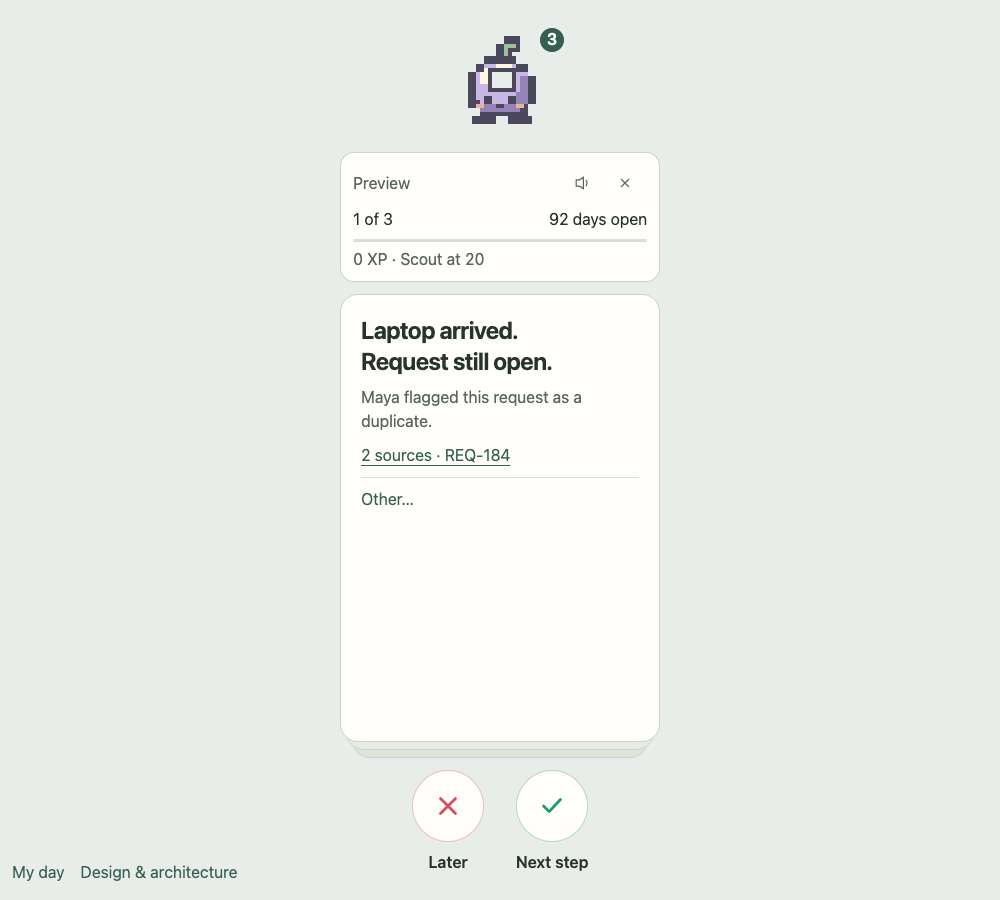
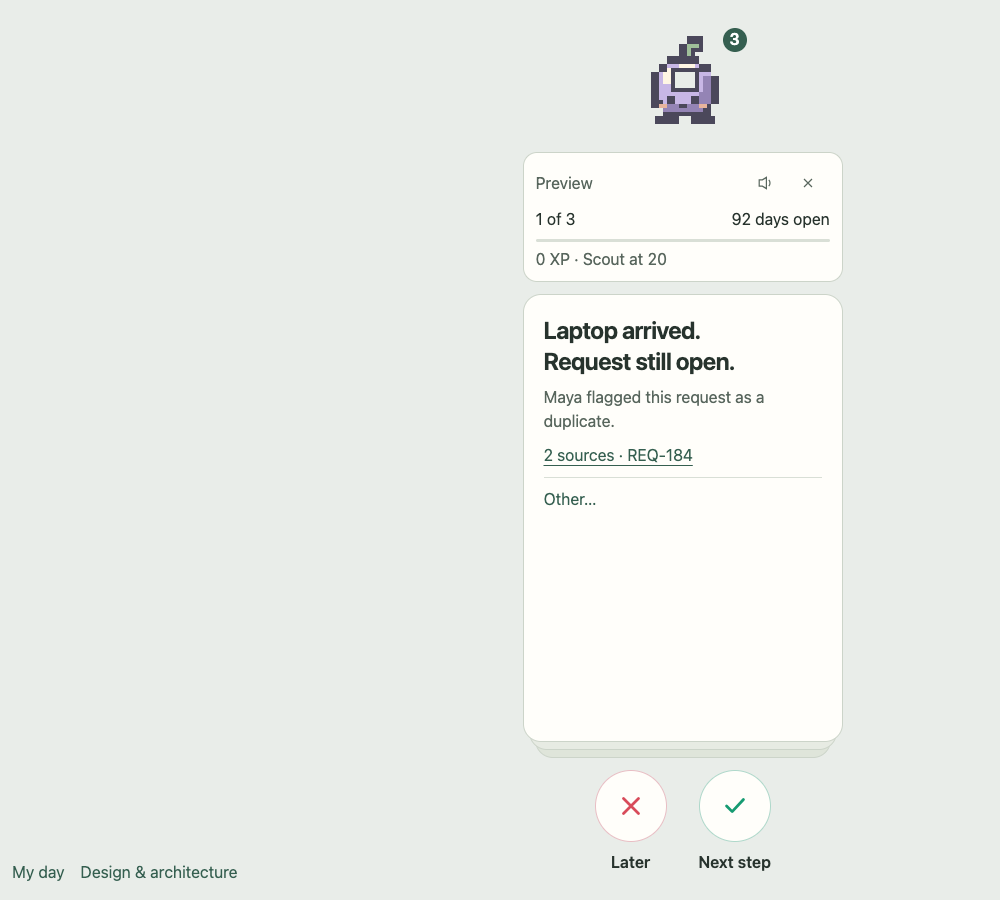
Retain deliberate buddy drops and remove decorative click motion

diff --git a/previews/assets/open-loops.js b/previews/assets/open-loops.js
@@ -277,7 +277,6 @@
     pendingTimer,
     idleTimer,
     happyTimer,
-    greetTimer,
     swipeTimer,
     drag = null,
     transitioning = false,
@@ -309,7 +308,7 @@
   reducedQuery.addEventListener('change', () => {
     if (!reduced()) return;
     clearMotionGhosts();
-    [info, deck, art, body.querySelector('#swipe-card')]
+    [info, deck, dock, body.querySelector('#swipe-card')]
       .filter(Boolean)
       .forEach((e) => e.getAnimations().forEach((a) => a.cancel()));
   });
@@ -1076,8 +1075,8 @@
       y: Math.max(12, Math.min(innerHeight - 140, anchor.y)),
     };
   }
-  function positionBuddy() {
-    const a = visibleAnchor(open ? buddyPose : buddyAnchor);
+  function positionBuddy(anchor = open ? buddyPose : buddyAnchor) {
+    const a = visibleAnchor(anchor);
     dock.style.left = `${a.x}px`;
     dock.style.top = `${a.y}px`;
     dock.dataset.anchorX = String(buddyAnchor.x);
@@ -1115,13 +1114,8 @@
     clearMotionGhosts();
     const wasOpen = open,
       animate = !reduced() && !keyboard,
-      beforeTop = art.getBoundingClientRect().top;
-    let closing;
-    if (!value && wasOpen && animate) {
-      closing = presentationClone(panel);
-      closing.hidden = false;
-    }
-    [info, deck, art].forEach((node) => node.getAnimations().forEach((a) => a.cancel()));
+      before = dock.getBoundingClientRect();
+    [info, deck, dock].forEach((node) => node.getAnimations().forEach((a) => a.cancel()));
     if (value && !wasOpen) Object.assign(buddyPose, visibleAnchor());
     open = value;
     panel.hidden = !value;
@@ -1137,51 +1131,14 @@
       positionBuddy();
       toggle.focus({ preventScroll: true });
     }
-    if (animate) {
-      const base = getComputedStyle(art).transform,
-        offset = beforeTop - art.getBoundingClientRect().top,
-        lifting = value && offset > 1;
-      art.animate(
-        [
-          { transform: `${base === 'none' ? '' : base} translateY(${offset}px)`, offset: 0 },
-          {
-            transform: `${base === 'none' ? '' : base} translateY(${value ? -12 : 0}px)`,
-            offset: 0.6,
-          },
-          { transform: base, offset: 1 },
-        ],
-        { duration: 240, delay: lifting ? 0 : 60, easing: 'cubic-bezier(.22,1,.36,1)' },
-      );
-      if (value) {
-        info.animate(
-          [
-            { transform: 'translateY(8px)', opacity: 0 },
-            { transform: 'none', opacity: 1 },
-          ],
-          { duration: 180, delay: lifting ? 240 : 0, easing: 'cubic-bezier(.22,1,.36,1)' },
-        );
-        deck.animate(
-          [
-            { transform: 'translateY(12px)', opacity: 0 },
-            { transform: 'none', opacity: 1 },
-          ],
-          { duration: 240, delay: lifting ? 240 : 0, easing: 'cubic-bezier(.22,1,.36,1)' },
-        );
-      }
-      if (closing) {
-        document.body.append(closing);
-        const exits = [...closing.querySelectorAll('.info-card,.deck-component')].map(
-          (node) =>
-            node.animate(
-              [
-                { transform: 'none', opacity: 1 },
-                { transform: 'translateY(12px)', opacity: 0 },
-              ],
-              { duration: 160, easing: 'cubic-bezier(.22,1,.36,1)' },
-            ).finished,
-        );
-        Promise.allSettled(exits).then(() => closing.remove());
-      }
+    const after = dock.getBoundingClientRect(),
+      dx = before.x - after.x,
+      dy = before.y - after.y;
+    if (animate && (Math.abs(dx) > 0.5 || Math.abs(dy) > 0.5)) {
+      const frames = [{ transform: `translate(${dx}px,${dy}px)` }, { transform: 'none' }],
+        timing = { duration: 180, easing: 'cubic-bezier(.22,1,.36,1)' };
+      dock.animate(frames, timing);
+      if (value) info.animate(frames, timing);
     }
     armIdle();
   }
@@ -1197,7 +1154,7 @@
     else toggle.focus({ preventScroll: true });
   }
   function reset() {
-    [pendingTimer, happyTimer, greetTimer, swipeTimer].forEach(clearTimeout);
+    [pendingTimer, happyTimer, swipeTimer].forEach(clearTimeout);
     for (const job of jobs.values()) {
       clearTimeout(job.stageTimer);
       clearTimeout(job.finishTimer);
@@ -1288,19 +1245,11 @@
       return;
     }
     setOpen(!open, e.detail === 0);
-    if (open) {
-      sound('pop', e);
-      if (e.detail && !reduced()) {
-        renderSprite('blink');
-        clearTimeout(greetTimer);
-        greetTimer = setTimeout(() => renderSprite('idle'), 180);
-      }
-    }
+    if (open) sound('pop', e);
   });
   toggle.addEventListener('pointerdown', (e) => {
     if (e.button !== 0 || e.isPrimary === false || buddyDrag) return;
-    [art, info].forEach((node) => node.getAnimations().forEach((a) => a.cancel()));
-    const anchor = open ? buddyPose : visibleAnchor();
+    const anchor = visibleAnchor(dock.getBoundingClientRect());
     buddyDrag = {
       id: e.pointerId,
       x: e.clientX,
@@ -1316,20 +1265,24 @@
     const dx = e.clientX - buddyDrag.x,
       dy = e.clientY - buddyDrag.y;
     if (!buddyDrag.moved && Math.hypot(dx, dy) < 8) return;
+    if (!buddyDrag.moved)
+      [dock, info].forEach((node) => node.getAnimations().forEach((a) => a.cancel()));
     buddyDrag.moved = true;
-    const anchor = open ? buddyPose : buddyAnchor;
-    anchor.x = buddyDrag.anchorX + dx;
-    anchor.y = buddyDrag.anchorY + dy;
+    buddyPose.x = buddyDrag.anchorX + dx;
+    buddyPose.y = buddyDrag.anchorY + dy;
     if (open) positionInfo();
     else {
-      Object.assign(buddyAnchor, visibleAnchor());
-      positionBuddy();
+      Object.assign(buddyPose, visibleAnchor(buddyPose));
+      positionBuddy(buddyPose);
     }
   });
   function finishBuddyDrag(e) {
     if (!buddyDrag || e.pointerId !== buddyDrag.id) return;
     suppressBuddyClick = buddyDrag.moved;
+    if (buddyDrag.moved && e.type === 'pointerup')
+      Object.assign(buddyAnchor, visibleAnchor(buddyPose));
     buddyDrag = null;
+    positionBuddy();
     if (toggle.hasPointerCapture(e.pointerId)) toggle.releasePointerCapture(e.pointerId);
     if (suppressBuddyClick)
       setTimeout(() => {

diff --git a/previews/assets/open-loops.css b/previews/assets/open-loops.css
@@ -1653,6 +1653,9 @@ svg {
   font-size: 1rem;
   line-height: 1.5;
 }
+.buddy-toggle:active:not(:disabled) {
+  transform: none;
+}
 @media (prefers-reduced-motion: reduce) {
   *,
   *::before,

diff --git a/docs/verification/local-checks.md b/docs/verification/local-checks.md
@@ -4,7 +4,7 @@ This report covers the transformed `previews/` files, not an earlier `.lavish` r
 
 ## Verified source identity
 
[4 lines of base64/hex data omitted]
 
@@ -18,8 +18,8 @@ HTML imports extract executable JS/CSS, rebase relative CSS URLs, retain executi
 | `npm run format:check`  | Pass                                                                                                   |
 | `npm run lint`          | ESLint, HTML validation, Stylelint, Markdownlint pass                                                  |
 | `npm test`              | 13 policy/import tests pass; zero skipped                                                              |
-| `npm run test:ui`       | All 9 Chromium tests pass in 12.2 seconds; zero skipped/retried                                        |
-| `npm run check:sentrux` | Sentrux 0.5.7: all 3 strict rules pass; 3 application JS / 12 total first-party JS files; quality 6824 |
+| `npm run test:ui`       | All 9 Chromium tests pass in 12.5 seconds; zero skipped/retried                                        |
+| `npm run check:sentrux` | Sentrux 0.5.7: all 3 strict rules pass; 3 application JS / 12 total first-party JS files; quality 6840 |
 | `npm run bundle`        | Created `dist/open-loops-preview.tar.gz` with per-file SHA-256 manifest                                |
 
 Local runtime: Node v26.12.1, npm 11.20.0. Hosted CI uses Node 24; local success is not a claim about hosted execution. Strict limits remain `max_cc=25`, `max_fn_lines=100`, `max_cycles=0`; no baseline, skipped tests, or continue-on-error was used.
@@ -28,28 +28,30 @@ Local runtime: Node v26.12.1, npm 11.20.0. Hosted CI uses Node 24; local success
 
 1. First scan streams labeled synthetic activity, offers a usable quest before completion, exposes activity through the independent info action, and preserves a draft across minimization.
 2. Actual front faces retain 5:7 geometry and width at least 260px at tested desktop/390/320 widths. Real CDP touch swipes, mouse drag/cancel, keyboard navigation, visible-circle clearance, mute persistence, and short-screen containment pass. External green Back restores the parent; cards expose no Back button or navigation landmark.
-3. Buddy placement restores its resting anchor after close; open drag moves buddy/info without moving the deck. Info stays below the displayed buddy. Acceptance gives +10 XP once, with no extra XP from navigation, snoozing, copying, cancel/retry, or source actions.
+3. Every deliberate drop, open or closed, becomes the next resting anchor. Close/reopen preserves an open drop; automatic boundary fitting does not overwrite it. Open drag moves buddy/info without moving the deck. A real motion-enabled click is sampled over 25 animation frames: dock and sprite stay still when no boundary correction is needed. Acceptance gives +10 XP once, with no extra XP from navigation, snoozing, copying, cancel/retry, or source actions.
 4. Prepared text preserves edits/history, copies exact literal content, opens a routed fixed Claude page without submitting, and exposes clipboard/popup failures honestly. Async job and source receipts cannot replace another quest's draft. Source-write approval remains separate.
 5. My day filters preserve totals and expose observed/inferred/demo provenance, linked evidence, and explicitly synthetic source receipts rather than live telemetry.
 
 ## Findings resolved
 
-The first hosted Linux run found a test event-completion race: after a real Close tap returned, the next buddy tap resolved while the dialog was still open. The test now waits for the observable hidden dialog before reopening, without changing input type or adding sleeps, forced clicks, retries, or skips. This is a test synchronization fix, not a recovered product change; canonical source stays unchanged.
+The first hosted Linux run found a test event-completion race: after a real Close tap returned, the next buddy tap resolved while the dialog was still open. The test now waits for the observable hidden dialog before reopening, without changing input type or adding sleeps, forced clicks, retries, or skips. That fix changed only test synchronization, not the product source.
 
 Earlier full runs exposed a fast buddy-drag capture bug and missing Back while a source receipt was pending. The canonical owner acquired pointer capture on pointerdown, retained the 8px threshold and up/cancel release, and made parent return independent of action-busy guards. History-aware return also covers activity. Async identity guards remain intact.
+
+Subsequent user reports identified open-drag placement reverting and excessive click bounce. The canonical owner commits the drop to the resting anchor, removes decorative art animation/click blink/active scaling, and limits necessary boundary motion to one monotonic 180ms dock/info move. Expanded regressions cover the open-drag close/reopen roundtrip and real motion-enabled stability; reduced-motion-only checks no longer hide that behavior.
 
 The test suite was updated for the user's superseding contract: large cards, no inside-card navigation, and the existing external green circle as Back. The drag test now targets a distinct position using the actual buddy handle. Clearance measures visible circles rather than their padded container. The first-scan test exercises the real info activity action instead of requiring an obsolete status button. Real touch and clipboard checks were not replaced with source-text assertions.
 
 ## Independent browser evidence
 
-After the final import and gates, a separate delivery-owned browser tab loaded the transformed preview from its own local server. It measured a 320×448 desktop front face and 260×364 at 320×700, with no horizontal overflow. The short deck had a 392px viewport and 500px content height: scrolling reached the external Back, which restored the root card. The prepared prompt was prefilled and navigation stayed outside it. My day rendered its synthetic timeline and source provenance.
+After the final import and gates, a separate delivery-owned browser tab loaded the transformed preview with motion enabled. A deliberate open drop at `(698.5,112)` stayed at exactly those coordinates after close and reopen; the art had zero animations. It measured a 320×448 desktop front face and 260×364 at 320×700. The prefilled prompt and external controls remained usable. Earlier independent inspection also covered the unchanged My day synthetic timeline and source provenance.
 
 Imported-copy screenshots: [desktop](../images/imported-desktop.png), [prompt](../images/imported-prompt.png), [320px card](../images/imported-mobile.png), [320px controls after scrolling](../images/imported-mobile-controls.png).
 
[2 lines of base64/hex data omitted]
 
 Old small-card/inside-Back screenshots and earlier 61-check reports are superseded. No live Snowflake/model API, native permissions, real reminders, source writes, signing, or business outcome is claimed.
 
 ## Cleanup and hosted status
 
-Playwright closed its browser contexts/server. The independent delivery tab, diagnostic browser, and their uniquely named local servers were closed; other workers' and user tabs/processes were not touched. Hosted PR, workflow, and artifact receipts are recorded in [CI.md](../CI.md). Repository visibility now reads public after an unexpected external change; this workstream preserved it. The earlier private-repository protection error is historical, not a current public-repository entitlement claim.
+Playwright closed its browser contexts/server. The independent delivery tab, diagnostic browser, and their uniquely named local servers were closed; other workers' and user tabs/processes were not touched. Hosted receipts are recorded in [CI.md](../CI.md). Repository visibility now reads public after an unexpected external change, preserved by this workstream. Main protection was subsequently configured and verified: exact required `PR gate`, strict checks, administrators included, and PRs with zero human approvals.

diff --git a/docs/CI.md b/docs/CI.md
@@ -4,7 +4,7 @@
 
 The user authorized commits, GitHub publication, CI/CD, and required PR checks after the initial documentation-only checkpoint. Private visibility was the initial default. Earlier no-commit/no-push restrictions no longer apply. Destructive history changes, visibility mutations, native releases, and unapproved source writes remain outside this workstream.
 
-Authenticated GitHub user: `i098`. `repos/i098/open-loops` initially returned HTTP 404. [i098/open-loops](https://github.com/i098/open-loops) was created private; origin is `https://github.com/i098/open-loops.git`. Documentation bootstrap `dd4ff34` is on main. [Draft PR #1](https://github.com/i098/open-loops/pull/1) contains the previews, plans, tests, and CI on `feat/verified-previews-ci`; it is not merged. A later raw API read returned `private: false`, `visibility: public`. This unexpected external visibility change was reported and preserved; no visibility mutation was performed here. The user clarified continuing publication to the existing repository. No unrelated repository was reused.
+Authenticated GitHub user: `i098`. `repos/i098/open-loops` initially returned HTTP 404. [i098/open-loops](https://github.com/i098/open-loops) was created private; origin is `https://github.com/i098/open-loops.git`. Documentation bootstrap `dd4ff34` is on main. [Draft PR #1](https://github.com/i098/open-loops/pull/1) contains the previews, plans, tests, and CI on `feat/verified-previews-ci`; it is not merged. A later raw API read returned `private: false`, `visibility: public`. This unexpected external visibility change was reported and preserved. Publication continued under the original GitHub authorization; this workstream did not change visibility. No unrelated repository was reused.
 
 The actual application deliverable is a **browser prototype plus plans**, not a Tauri application. CI must not invent a Cargo build for absent native sources.
 
@@ -49,7 +49,7 @@ Job name: **`PR gate`**. It depends on `detect`, `format`, `lint`, `test`, and `
 - Docs-only PRs still receive the stable gate, while unnecessary browser/Sentrux work skips.
 - Main delivery depends on gate success. No `continue-on-error`, warning-only Sentrux, or fake successful fallback is permitted.
 
-The earlier private-repository branch-protection PUT and diagnostic GET returned HTTP 403: `Upgrade to GitHub Pro or make this repository public to enable this feature.` Repository admin permission was present. That was an account-entitlement restriction for the then-private repository, not missing admin access. The repository is now unexpectedly public; the previous restriction does not establish its current entitlement state. No protection request was retried after that change. This workstream has not configured an enforced required branch rule; the workflow's `PR gate` alone is not branch protection.
+The earlier private-repository protection attempt returned HTTP 403 requiring GitHub Pro or public visibility. After the externally changed visibility cleared that condition, an authorized GET found main unprotected (HTTP 404). The minimal protection policy was then applied and verified by GET: exact required context **`PR gate`**, strict up-to-date checks, enforced for administrators, and pull requests required with **zero human approvals**. No code-owner or extra reviewer policy was added. Force pushes and deletions are disabled. The prior private-repository entitlement blocker is historical; required-gate enforcement is now active. No visibility change or auto-merge was performed.
 
 ## Untrusted PRs and pins
 
@@ -117,10 +117,10 @@ npm install --ignore-scripts
 
 Observed: user `i098`; initial repository 404; created repository confirmed private; Sentrux 0.5.7; 249 npm packages installed. No credentials were written to repository docs. Initial npm engine warning reflected Node26 versus the first proposed strict Node24 range; package support now allows Node24 and newer while CI remains on Node24.
 
[2 lines of base64/hex data omitted]
 
 ## Hosted execution receipts
 
 The first [hosted run 40022399641](https://github.com/i098/open-loops/actions/runs/40022399641) completed with failure: Detect, Format, Lint, and Sentrux passed; browser/policy job failed on one of nine browser tests; `PR gate` failed and preview delivery correctly skipped. The [failure trace artifact](https://github.com/i098/open-loops/actions/runs/40022399641/artifacts/12530638418) is diagnostic evidence, not a delivered preview.
 
[1 lines of base64/hex data omitted]
+The trace shows the next buddy tap resolving while `aria-expanded` was still `true` after Close's touch action returned. The test now waits for the observable hidden dialog before tapping to reopen. It still uses real touch input and verifies preserved snooze/mute state; no sleep, force-click, retry, or skip was added. That test-only correction left source `5dd26847…` unchanged. Later user-reported placement/bounce bugs were fixed in source `82d02fd3…` and checked separately. Current hosted results must come from the actual [PR checks](https://github.com/i098/open-loops/pull/1/checks), not local inference.

diff --git a/PLAN.md b/PLAN.md
@@ -20,13 +20,13 @@ Turn a cited office loose end into a prepared prompt, one numbered decision, and
 
 - **Companion:** an independent buddy, info card, and **5:7 poker-ratio** decision deck with meaningful backing edges, no heavy header, fake desktop, or shadows. The buddy keeps its stored resting anchor for the browser session. Root actions remain circular red-X/green-check controls; on child cards the green control becomes Back. No navigation bar, Back button, or reserved navigation space appears inside any card. Close stays in the info card. Preserve focus, draft, card, and running job.
 - **Left:** choose one of three snooze times. **Right:** choose one of two or three numbered read/draft actions, inspect the full brief, then explicitly accept. Swipes themselves grant no permission and no XP.
-- **Acceptance:** +10 XP exactly once per quest ID, immediately on explicit acceptance, not completion. A slim XP bar sits at the independent info card's bottom. Pip 0–19, Scout 20–29, Guide 30+. Retries, duplicate clicks, snoozes, and source writes cannot farm XP. Sound is optional; reduced motion removes slide/hop animation.
+- **Acceptance:** +10 XP exactly once per quest ID, immediately on explicit acceptance, not completion. A slim XP bar sits at the independent info card's bottom. Pip 0–19, Scout 20–29, Guide 30+. Retries, duplicate clicks, snoozes, and source writes cannot farm XP. Sound is optional; reduced motion removes transition travel. Decorative buddy bounce/hop is disabled for everyone.
 - **Source mutation:** a separate approval of exact recipient/record/operation/payload; recheck current actor permission, source revision/status, and evidence; perform authorized write and authoritative readback. Timeouts remain unverified until reconciled.
 - **Idle:** after approximately 300 seconds of OS idle, optionally suggest a due quest quietly. Never auto-open, steal focus, accept, upload, or dispatch.
 
 The buddy is the placed anchor. An independent info card always sits below the displayed buddy and owns Preview, sound, Close, count/age, progress, and status. The separate 5:7 deck owns quests, options, prompt editing, swipes, and its own sizing, position, and motion. Both open with the buddy; deck navigation never moves the info card.
 
-Distinguish the stored **resting anchor** from the temporary **display pose**. Near the bottom edge, top-to-bottom order is **deck including circular actions, buddy, info**. Lift the displayed buddy only enough to fit the info card below it; fit the deck independently above it. Never flip info above the buddy or reserve room for the whole deck below it. Close restores the resting anchor; opening and viewport clamping must not overwrite it. Dragging an open buddy moves its info card, not the deck.
+Distinguish the stored **resting anchor** from temporary boundary fitting. Every deliberate user drop commits a new resting anchor whether open or closed; subsequent clicks and close/reopen retain it. Automatic fitting never writes that anchor. Near the bottom edge, order is **deck including circular actions, buddy, info**. Lift the displayed buddy only enough to fit info below it; fit the deck independently above it. Never flip info above the buddy or reserve room for the whole deck below it. Open drag moves info, not the deck. No decorative click bounce or hop; necessary boundary movement alone uses one short monotonic dock transition.
 
 Desktop cards are normally 320×448px, never below 260×364px when width allows. Narrow cards use `min(260px, viewport width − 24px)` at the same 5:7 ratio. Never shrink cards or essential 16px text to fit the buddy/info stack. Use the deck's own scrolling viewport for short screens so its full-size card and controls remain reachable without overlapping buddy/info.
 
@@ -61,7 +61,7 @@ Generate each quest with its 2–3 stable action options, exact briefs, hard rea
 
 Swipes render stored options immediately: no LLM/network request, loading state, or agent job. **Other… always edits the existing prepared prompt**, prefilled with current quest/option context and constrained read/draft scope. It preserves edits on Back and requires save/review before explicit Copy/Open handoff; handoff grants no XP and needs no demo acceptance. Only starting a demo/API job requires separate Accept and grants +10 XP once per quest. The three fixed snooze durations stay; there is no custom-date workflow. Typing, copying, opening a page, or navigating never implies agent execution.
 
-Keep essential text at least 16px; remove redundant minor subtexts rather than hiding safety scope. Motion follows the selected free [Transitions.dev references](docs/motion.md): 180ms/8px child-back changes, 240ms/24px deck entry, restrained buddy hop, and immediate reduced-motion/keyboard state changes. Use browser-native CSS/Web Animations; retain source provenance and the custom snippet-license limits. No Pro recipe, motion library, or CI dependency is added.
+Keep essential text at least 16px; remove redundant minor subtexts rather than hiding safety scope. The free [Transitions.dev references](docs/motion.md) inform card motion: 180ms/8px child-back changes and 240ms/24px deck entry, with immediate reduced-motion/keyboard changes. They do not authorize a buddy hop. Use browser-native CSS/Web Animations; retain source provenance and custom snippet-license limits. No Pro recipe, motion library, or CI dependency is added.
 
 ### Prompt handoff
 
@@ -123,7 +123,7 @@ Real Sentrux 0.5.7 uses pinned binary/grammar hashes, telemetry opt-out, strict 
 
 A successful main push creates an actual downloadable preview archive with a SHA-256 manifest. A successful PR may produce a review artifact when packaged inputs change. Neither means hosted deployment or native release. The exact path matrix, Action pins, commands, results, and GitHub run/artifact links belong in [CI.md](docs/CI.md).
 
-**Protection is not configured by this workstream:** the historical HTTP 403 was an entitlement restriction while the repository was private. Visibility now reads public after an external change; protection was not retried. Do not claim the workflow gate is server-enforced branch protection.
+**Main protection is enforced:** verified GET reports required `PR gate`, strict up-to-date checks, administrator enforcement, and PRs with zero human approvals. The earlier private-repository HTTP 403 is historical. No extra reviewer policy, visibility mutation, or auto-merge was introduced.
 
 ## 7. Final handoff gates
 

diff --git a/docs/motion.md b/docs/motion.md
@@ -57,39 +57,21 @@ Stage a newly mounted child in its `after` position before activating it; either
 
 Commit the existing navigation state immediately. Mark every inactive real card `inert` and `aria-hidden="true"`; opacity and pointer-events alone do not remove keyboard access. Focus the active heading or restore the originating control on back, without waiting 180ms. Preserve drafts. Keyboard navigation should switch immediately with no travel.
 
-## 3. Independent deck entry and buddy hop
+## 3. Independent deck entry and necessary placement
 
-The public Panel reveal recipe uses 400ms open / 350ms close, 93.5px vertical travel, 2px blur, and the same easing. Adapt it to:
+The public Panel reveal recipe informs only deck motion:
 
 - Deck open: `translateY(24px)` / opacity `0` to `translateY(0)` / opacity `1`, **240ms**, `cubic-bezier(0.22, 1, 0.36, 1)`.
 - Deck close: reverse those states over **160ms**. No blur, scale, or delayed interaction. Info is not inside this moving layer and never moves during child navigation.
-- Position first: info always follows below the displayed buddy. Near bottom, top-to-bottom order is deck including circular actions, buddy, info. Lift the buddy only enough to fit info and fit the deck independently above it. Keep the resting anchor intact; close restores it. Open buddy drag moves info, not deck.
-- Buddy: animate only the **inner sprite**, never the outer draggable anchor. Start **60ms** after opening; one **240ms** hop with vertical offsets **0px, -12px, 0px** at offsets **0, 0.45, 1**. Do not loop or replay for child navigation.
+- Position first: info follows below the displayed buddy. Near bottom, order is deck including circular actions, buddy, info. Lift the buddy only enough to fit info; place the deck independently above it.
+- A deliberate user drop commits the new resting anchor whether the buddy is open or closed. Automatic boundary fitting never persists the temporary pose. Open drag moves info, not the deck; subsequent close/reopen must not return to an earlier user placement.
+- No decorative buddy hop, click bounce, hover travel, or click-triggered pose change. If opening requires a boundary correction, move the actual dock along one short monotonic easing path, with no overshoot, delay, or separate sprite-position owner. When no correction is needed, clicking leaves the buddy and sprite still.
 
-An illustrative browser Web Animations implementation for the decorative hop, called only by the existing closed-to-open handler:
-
-```js
-function hopBuddy(sprite) {
-  sprite.getAnimations().forEach((animation) => animation.cancel());
-  if (matchMedia('(prefers-reduced-motion: reduce)').matches) return;
-  sprite.animate(
-    [
-      { transform: 'translateY(0)', offset: 0, easing: 'cubic-bezier(0.22, 1, 0.36, 1)' },
-      { transform: 'translateY(-12px)', offset: 0.45, easing: 'cubic-bezier(0.55, 0, 1, 0.45)' },
-      { transform: 'translateY(0)', offset: 1 },
-    ],
-    { duration: 240, delay: 60 },
-  );
-}
-```
-
-Use a sprite-only motion wrapper if the sprite already owns other transforms/animations. Cancel this decorative animation on close, drag start, and a live switch to reduced motion. Keep the saved anchor coordinates unchanged. This is a keyframed hop, **not a spring simulation**.
-
-For reduced motion or keyboard navigation, state changes instantly: no travel, hop, scale, or delay. Apply the same rule in CSS and JS; preserve the actual open/close result and required static placement. Do not depend on `transitionend` to finish a functional state change. This single-DOM motion is not proof of native multi-window behavior.
+Reduced motion and keyboard navigation use immediate state changes without travel or delay. Do not depend on `transitionend` to finish a functional state change. This single-DOM motion is not proof of native multi-window behavior.
 
 ## 4. Sources and license
 
-Read the actual free CSS and the repository license. No premium code was fetched. The public library labels **Card stack hover** Pro; the decorative stack and hop above are original recommendations, not a copy of that recipe.
+Read the actual free CSS and repository license. No premium code was fetched. The public library labels **Card stack hover** Pro; no code from that recipe is included. The card-navigation adaptations above do not authorize decorative buddy motion.
 
 **Public documentation**
 
@@ -111,4 +93,4 @@ Retain `Transitions.dev` provenance comments and source URLs when adapting snipp
 
 ## 5. Integration check for the owning agent
 
-The owning integration check should exercise child/back, same-quest snooze, prepared-prompt edit restoration, and root right-action without changing semantics. Include reduced motion, keyboard focus, rapid navigation, narrow-window clipping, minimal buddy lift, and dragging an open buddy without moving the deck. XP and job dispatch must not depend on motion. Record actual outcomes separately; this document makes no test-pass claim.
+The integration check should exercise child/back, same-quest snooze, prepared-prompt edit restoration, and root right-action without changing semantics. Include reduced motion, a real motion-enabled click with no unnecessary buddy movement, keyboard focus, rapid navigation, narrow-window clipping, necessary boundary lift, and open-drag close/reopen placement retention while the deck stays fixed during drag. XP and job dispatch must not depend on motion. Record actual outcomes separately; this document makes no test-pass claim.

diff --git a/docs/implementation-plan.md b/docs/implementation-plan.md
@@ -32,7 +32,7 @@ No chat-first interface, fake desktop scene, autonomous sending/closing, broad d
 
 - The independent deck contains an unmistakable **5:7 physical swipe card**, no shadows, and truthful backing-card edges. Desktop size is normally 320×448px, at least 260×364px when width allows. Narrow width is `min(260px, viewport width − 24px)`, preserving 5:7. Do not shrink by available height; use deck-owned scrolling on short screens. Root actions are circular red-X/green-check controls with accessible Later/Next step names; backings reflect real remaining cards and are inert.
 - Remove the heavy header. The buddy, info card, and deck have separate geometry. Info is always below the displayed buddy; the deck owns its own position, sizing, and animations. Near the bottom edge, top-to-bottom order is deck including circular actions, buddy, info. Lift the buddy only enough to fit info below it, not the whole deck.
-- Retain the chosen resting anchor in browser-session memory. Opening may temporarily adjust the displayed buddy pose without overwriting the anchor; closing restores it. An open buddy drag moves info but not the deck. Do not duplicate the sprite or claim browser placement proves native windows.
+- Retain the latest user-dropped resting anchor in browser-session memory. A deliberate open or closed drag commits the new anchor; automatic boundary fitting never does. Close/reopen preserves that placement. Open drag moves info but not the deck. No decorative click bounce/hop or competing sprite-position animation; only a necessary boundary correction may move the dock monotonically. Do not duplicate the sprite or claim browser placement proves native windows.
 - **No navigation controls or reserved navigation padding inside any card.** The existing green circular control outside the card becomes Back on child views; there is no extra Back button or header cap. It pops one view and preserves quest, draft, and job. Close stays in info and hides all companion surfaces, not cancels. Escape performs Back when available, otherwise Close. Neither action approves work.
 - Put the slim acceptance-XP bar at the info card's bottom. Info owns Preview, mute, Close, count/age, progress, and status; it does not move during deck navigation. Keep exact XP text accessible. First-scan progress is indeterminate: no fake percentage, ETA, or numeric `aria-valuenow`.
 - At 390/320px, retain the full-size 5:7 card and scroll the deck's own viewport when card plus controls cannot fit above the buddy. Scroll long body/brief content separately. Keep essential text at least 16px, usable type at 200% zoom, selectable evidence, 44px targets, and no horizontal overflow. Never reduce card/font size to accommodate buddy/info height.
@@ -254,8 +254,8 @@ This is a **future acceptance matrix**, not a claim these checks have run. Histo
 
 ### Companion and accessibility
 
-1. Inspect actual rendered closed/open, snooze, choices, evidence, edited brief, acceptance/running/result, source-action review, and 20/30-XP states at desktop and 390/320px widths. Near bottom, require deck including circular actions, buddy, info in that order. Opening preserves resting anchor; only enough buddy lift fits info. Open buddy drag moves info, not deck.
-2. Assert Back stays inside the continuous decision card and Close in info across secondary views, including onboarding/activity. Test Escape, outside close, reopening, canceled drag, fast double input, touch vertical scroll, horizontal swipe, selectable text, and focus return. Info must not animate with deck navigation.
+1. Inspect rendered closed/open, snooze, choices, evidence, edited brief, acceptance/running/result, source-action review, and 20/30-XP states at desktop and 390/320px widths. Near bottom, require deck including circular actions, buddy, info in that order. Automatic fitting preserves the resting anchor; deliberate open/closed drops replace it. Verify placement survives close/reopen, with no decorative buddy movement in real motion-enabled mode.
+2. Assert no navigation landmark or Back button inside any decision card. The external green circle returns to the parent; Close stays in info. Test Escape, outside close, reopening, canceled drag, fast input, real touch scrolling/swiping, selectable text, and focus return. Info must not animate with deck navigation.
 3. Accept only through the explicit button; verify +10 once for unique quest ID, no XP for swipe/snooze, no additional XP on retry, and XP retained after post-accept cancellation. Check Pip/Scout/Guide derived thresholds.
 4. Check 200% zoom, long briefs, 44px targets, keyboard without pointer, reduced motion, muted/unavailable audio, and no hidden essential action. Review active states visually, not just source declarations.
 5. Verify quiet idle does not open, focus, play sound, or dispatch; browser virtual timer evidence is labeled simulation. Native OS idle behavior requires a packaged/runtime check.

diff --git a/docs/ui-design.md b/docs/ui-design.md
@@ -5,9 +5,9 @@ This direction supersedes the earlier pocket/header-rail anatomy; the obsolete d
 ## Placement and object identity
 
 - One sprite DOM instance stays in the same buddy button. There is no name/XP/navigation rail above the card, no fake desktop, no shadow or gradient workaround, and no forced recenter on open or close.
-- The user drags the 128px buddy hit area. Movement beyond 8px is placement, not activation. Store the chosen resting x/y in memory; opening, closing and ordinary state transitions never overwrite it. Clamp the displayed buddy on viewport resize without destroying the stored anchor.
+- The user drags the 128px buddy hit area. Movement beyond 8px is placement, not activation. Each deliberate drop commits the chosen resting x/y in session memory, whether open or closed. Opening, closing, and automatic viewport fitting do not overwrite it. No reload/storage persistence is implied.
 - Info is an independent card always below the displayed buddy. The deck has separate bounds, sizing, and animations; it is not an info/deck wrapper. Near the bottom edge, top-to-bottom order is **deck including circular actions, buddy, info**. Lift the buddy only enough to fit info; place the deck independently above it.
-- Close restores the resting anchor. Dragging an open buddy moves info, not the deck. A decorative inner-sprite hop changes neither anchor nor info placement; reduced motion removes that hop and uses immediate placement.
+- Close restores the latest user-dropped resting anchor. Dragging an open buddy moves info, not the deck, and its drop becomes the new anchor for subsequent close/reopen. No decorative click hop, bounce, blink-pose change, or hover travel. Only a necessary boundary correction may move the actual dock in one short monotonic path; reduced motion makes it immediate.
 - Proposed Tauri windows mirror these three independent surfaces, with a normal optional My day window and per-window capabilities. Browser layout is not proof of native focus, click-through, or multi-display behavior.
 - Review-only My day / Design & architecture links sit at the bottom corner, outside the widget. They are not a topbar or part of the quest decision.
 

diff --git a/README.md b/README.md
@@ -53,7 +53,7 @@ Repository: [i098/open-loops](https://github.com/i098/open-loops). [Draft PR #1]
 
 Every PR and main push runs path detection and the stable **PR gate**. Relevant formatting, lint, browser/policy tests, and Sentrux must succeed; irrelevant jobs may skip. Changes to packaged inputs create a downloadable review artifact on PRs and a continuous-delivery artifact on main. Unrelated changes do not rebuild the preview.
 
-**Branch protection is not configured by this workstream:** the earlier private-repository attempt returned HTTP 403 requiring GitHub Pro or public visibility. That historical entitlement blocker is not a claim about the now-public repository. Protection was not retried after the unexpected visibility change. Workflow success alone does not enforce a branch rule.
+**Main is protected:** the exact `PR gate` context is required, branches must be up to date, administrators are included, and changes require a PR with zero human approvals. The policy was applied after a GET confirmed no existing protection and then verified by GET. No extra reviewer policy, auto-merge, or visibility change was introduced.
 
 ## Initialization receipt
 
